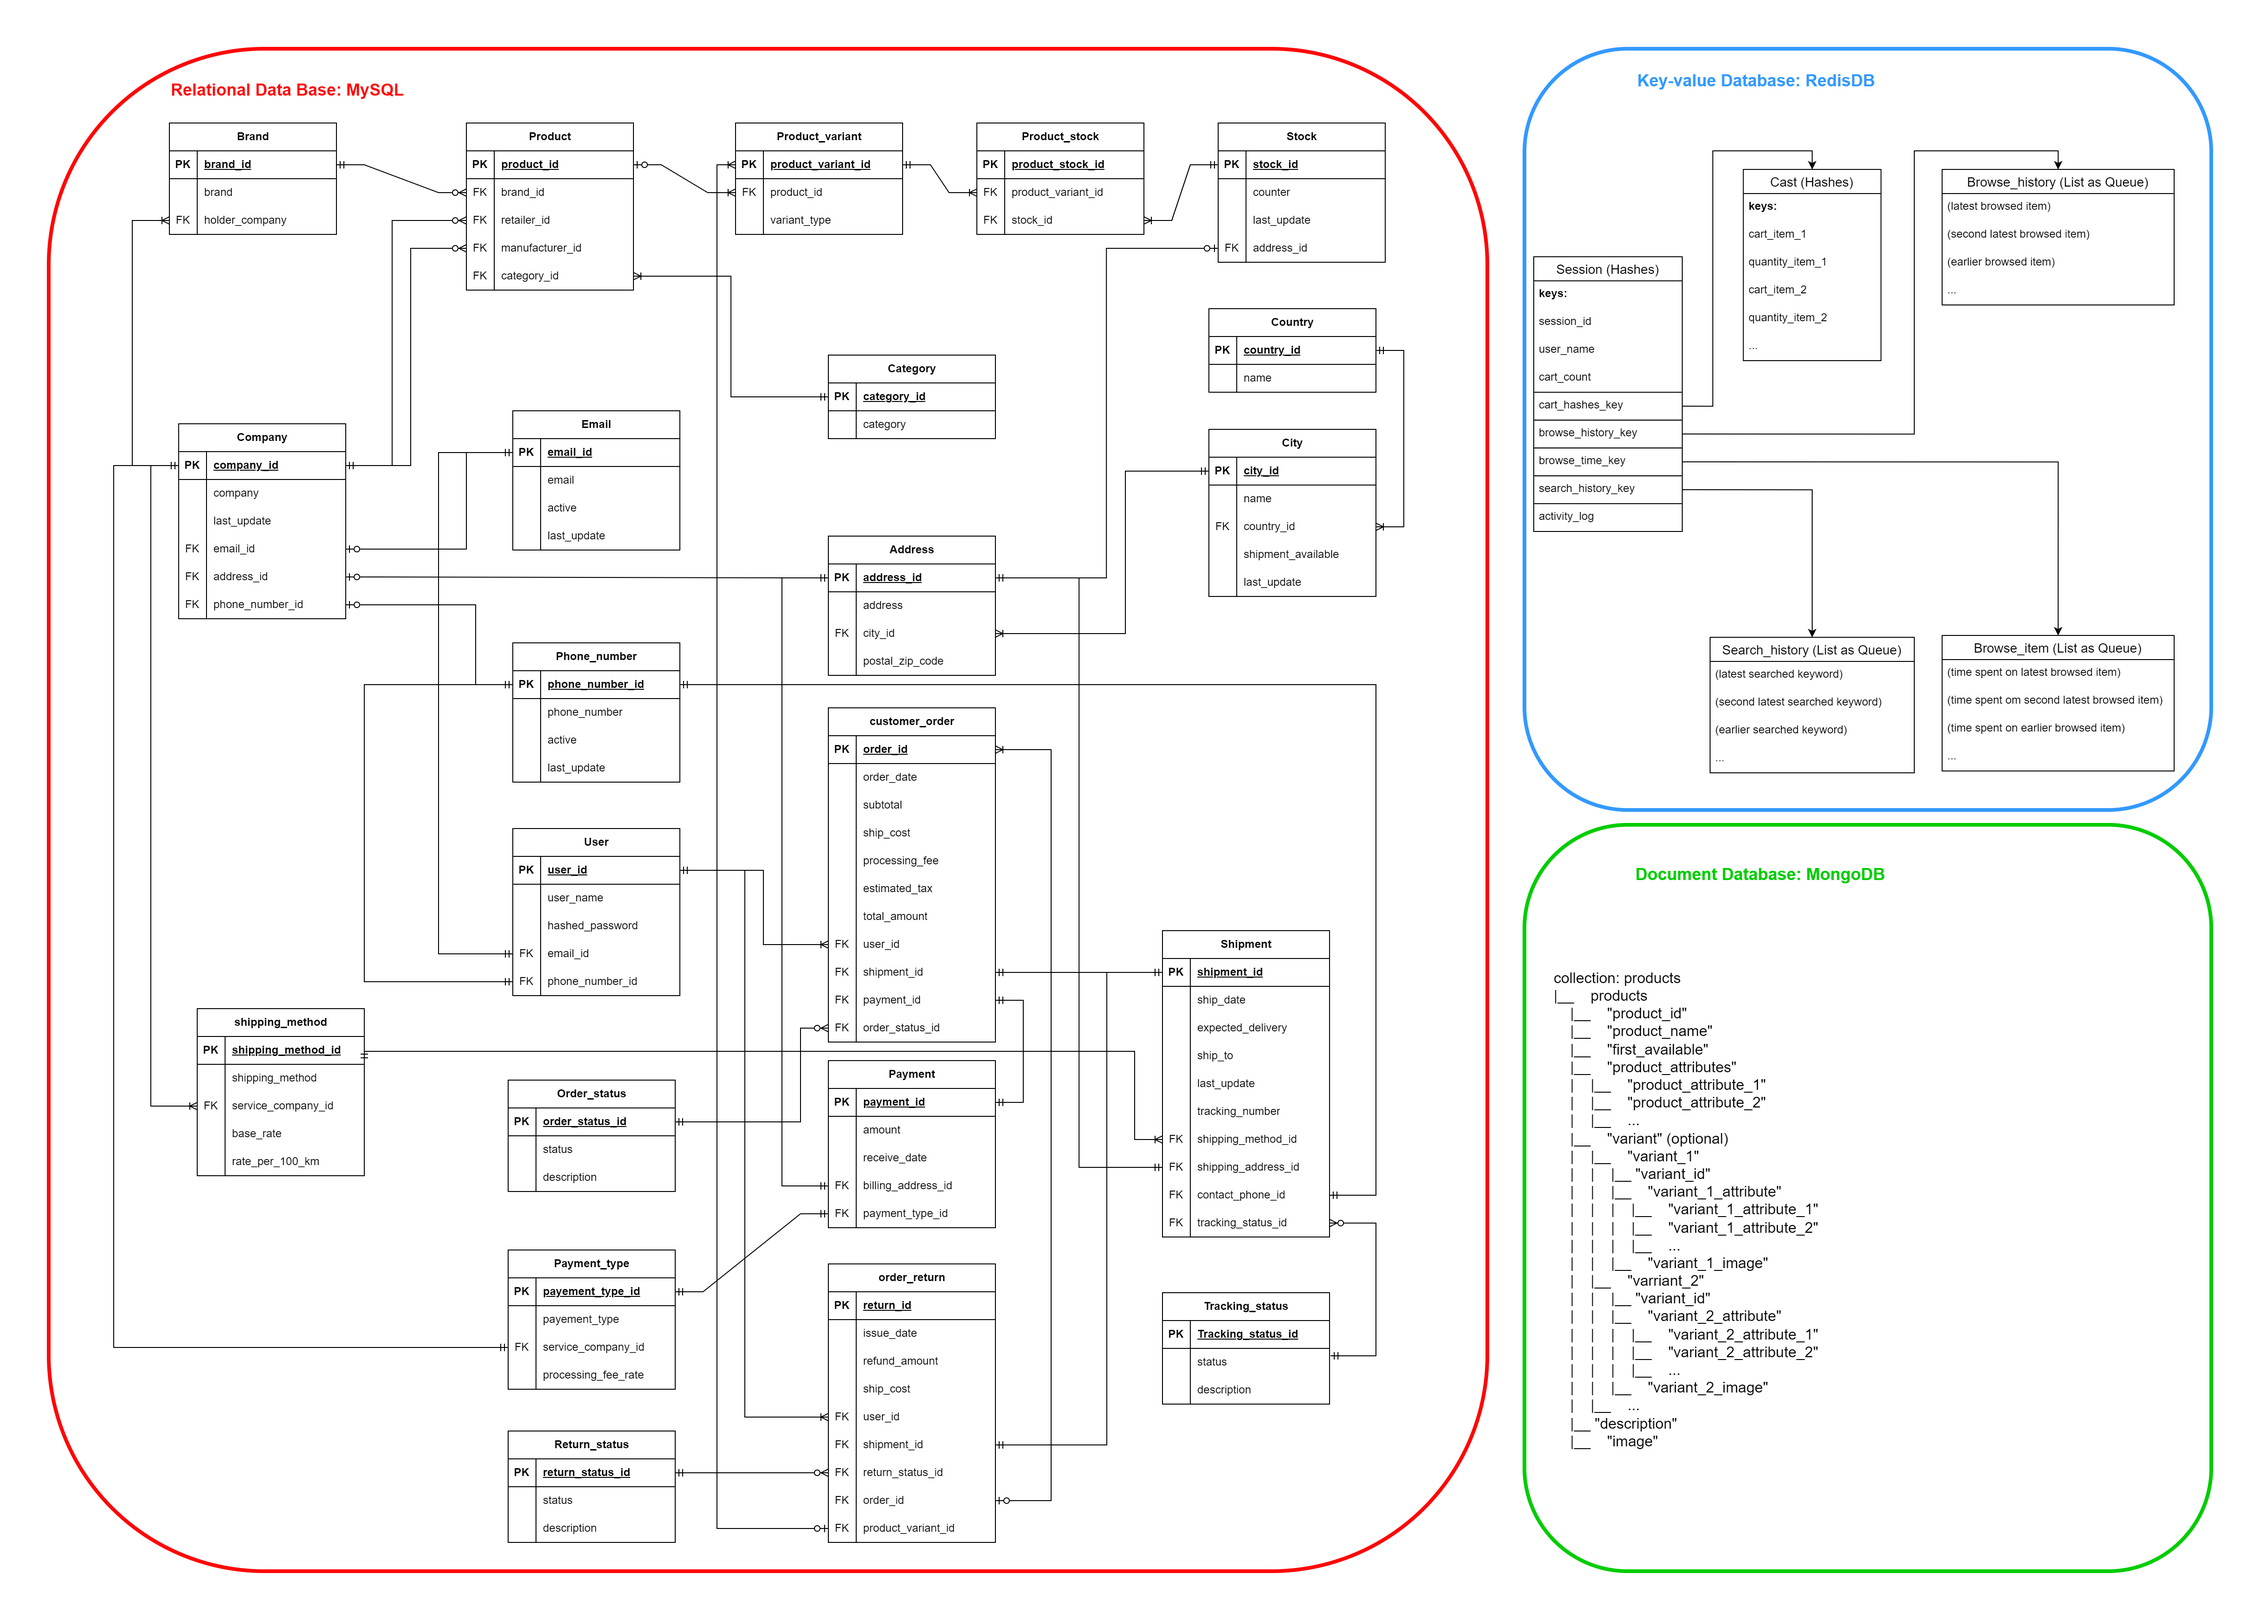
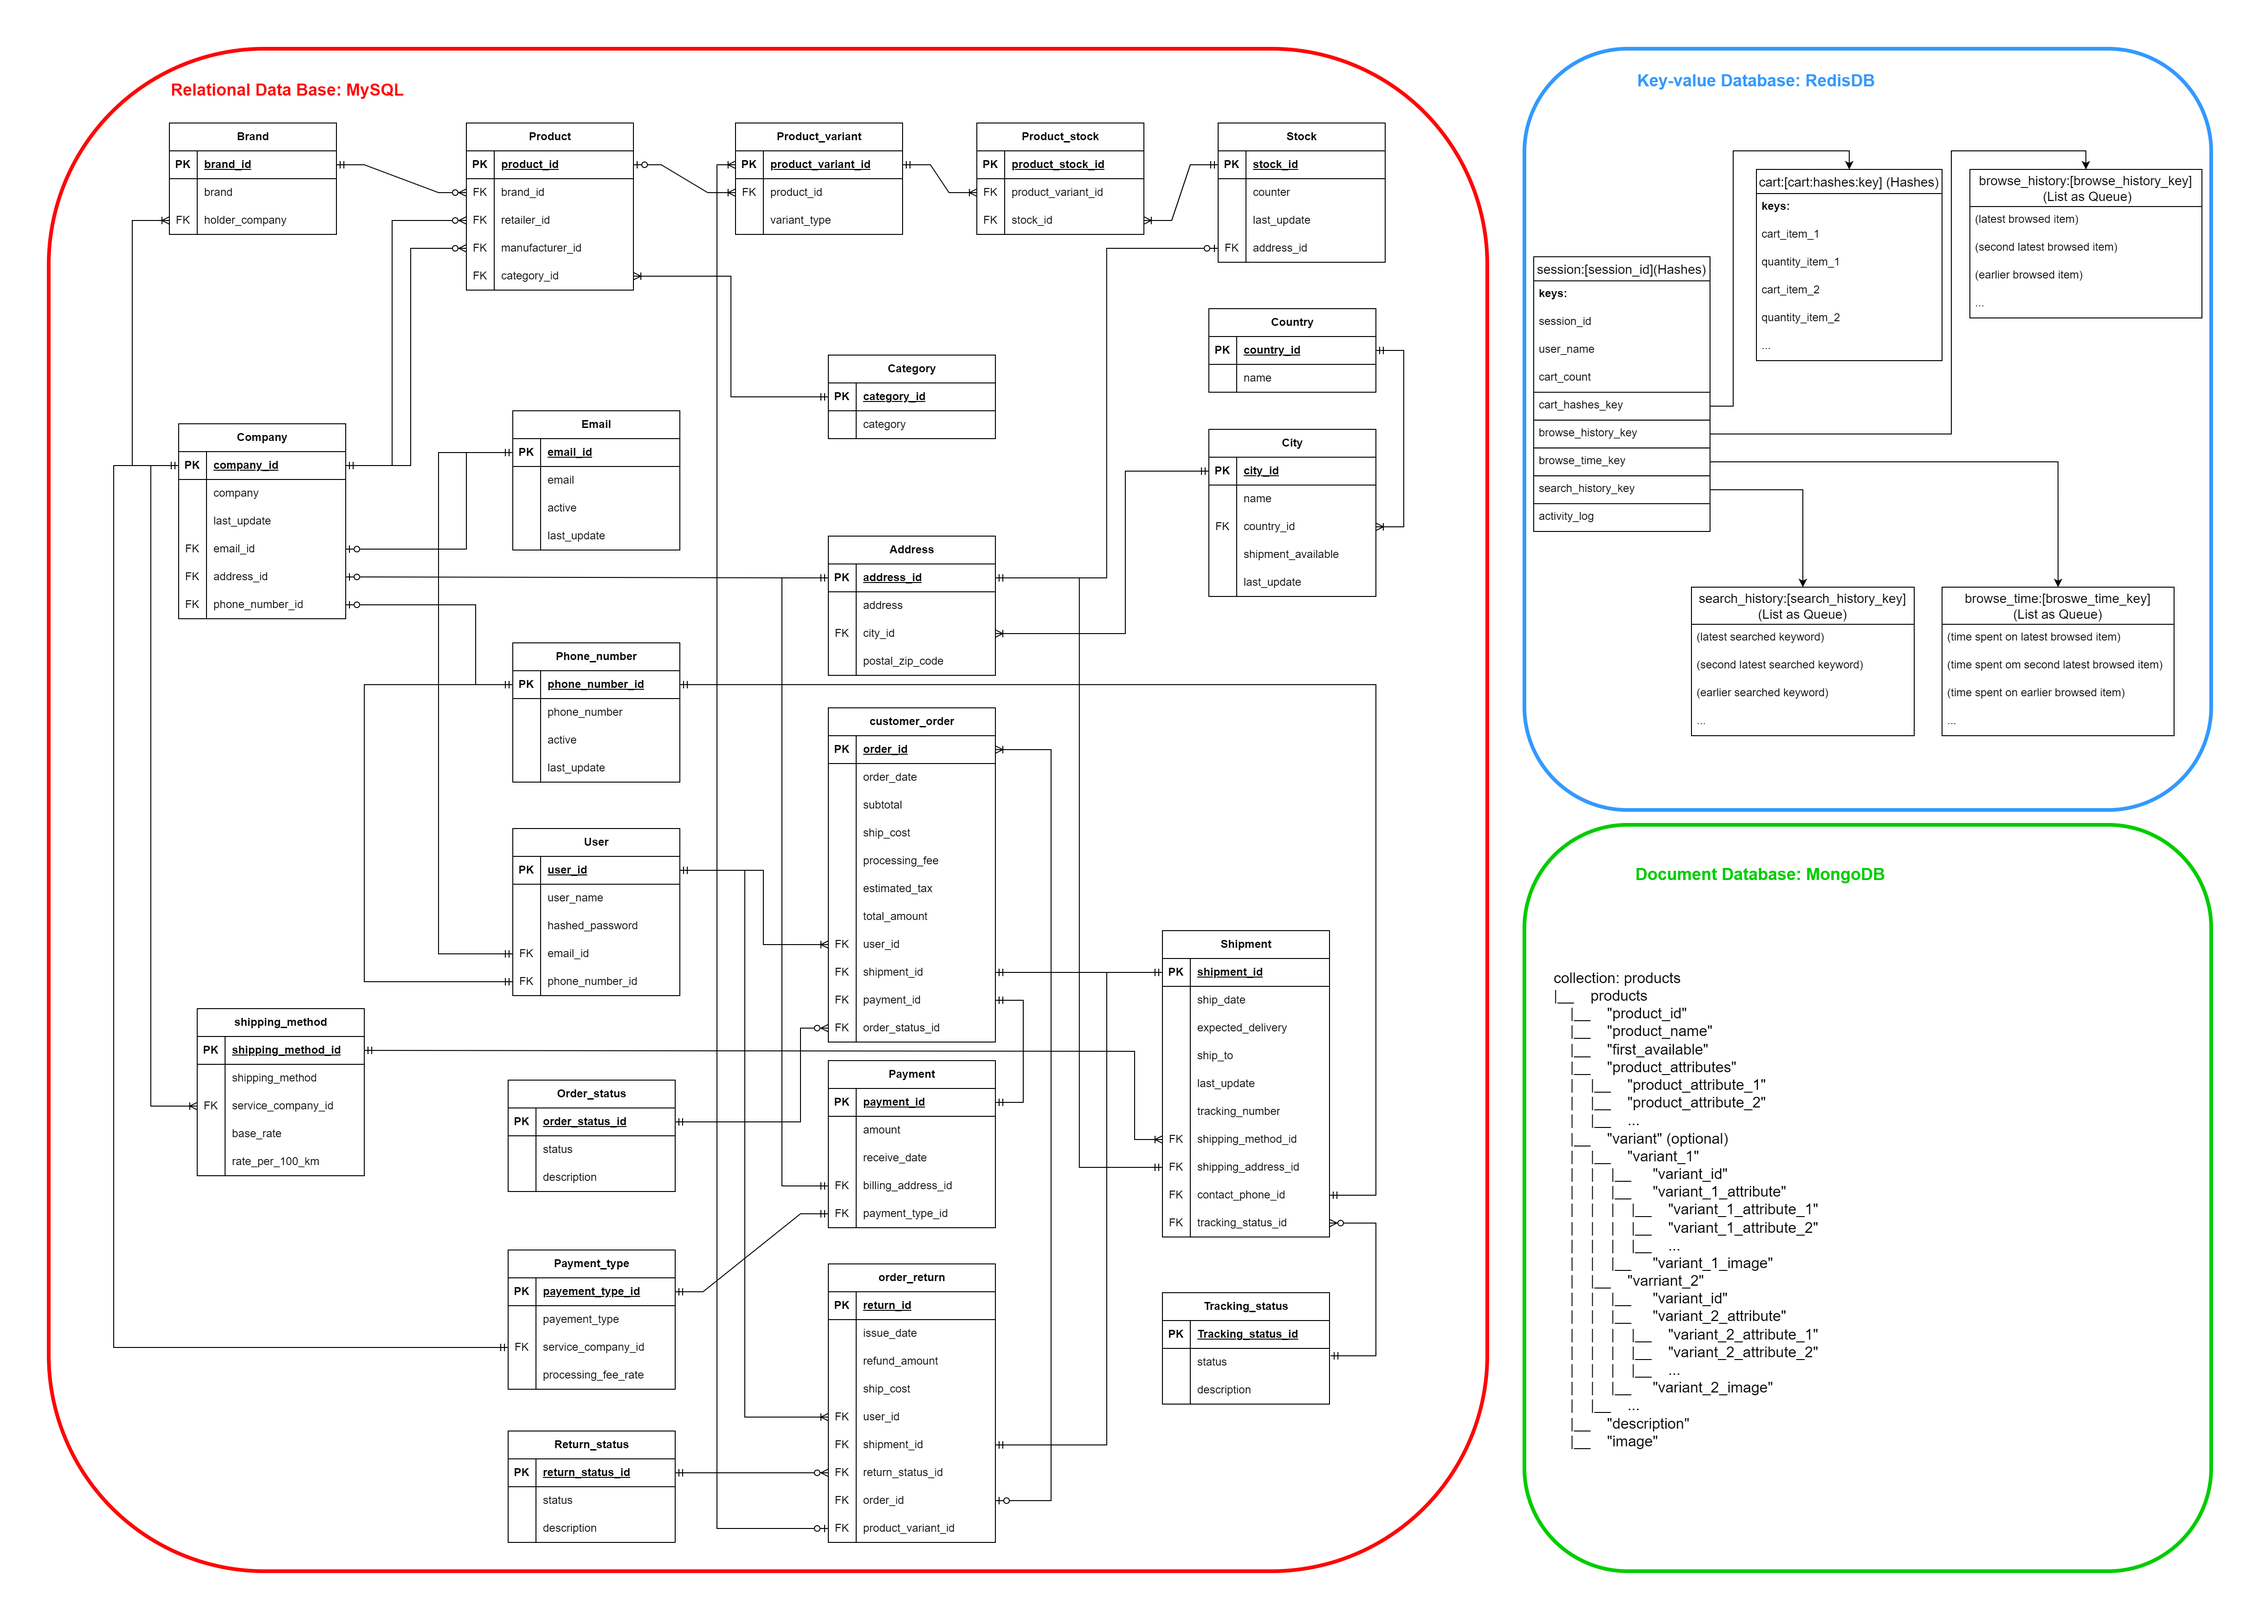
revision 5

diff --git a/README.md b/README.md
@@ -55,3 +55,7 @@ size, color, etc., adding a product_variant help reduce the data size and minimi
   - add product variant id
   - move general attributes out from variant attributes
 * re-formate structure diagram
+
+### Revision 5 (11-29-2023)
+* Update RedisDB bucket names
+* Update RedisDB code
